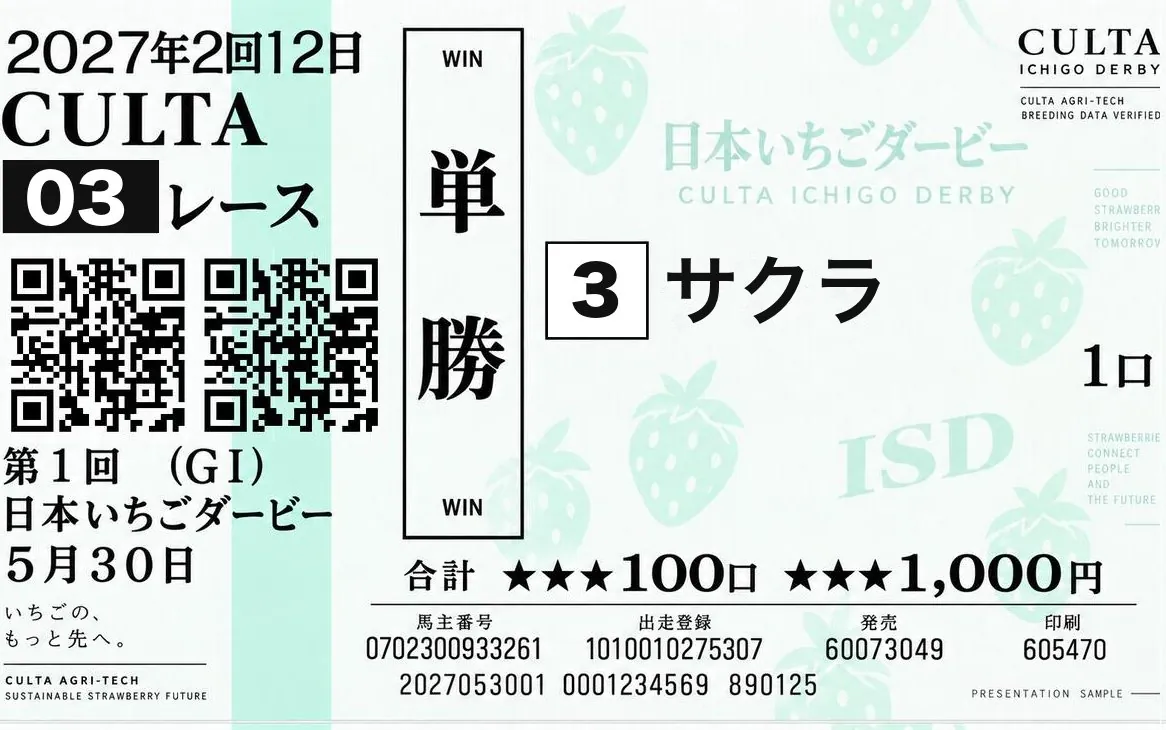
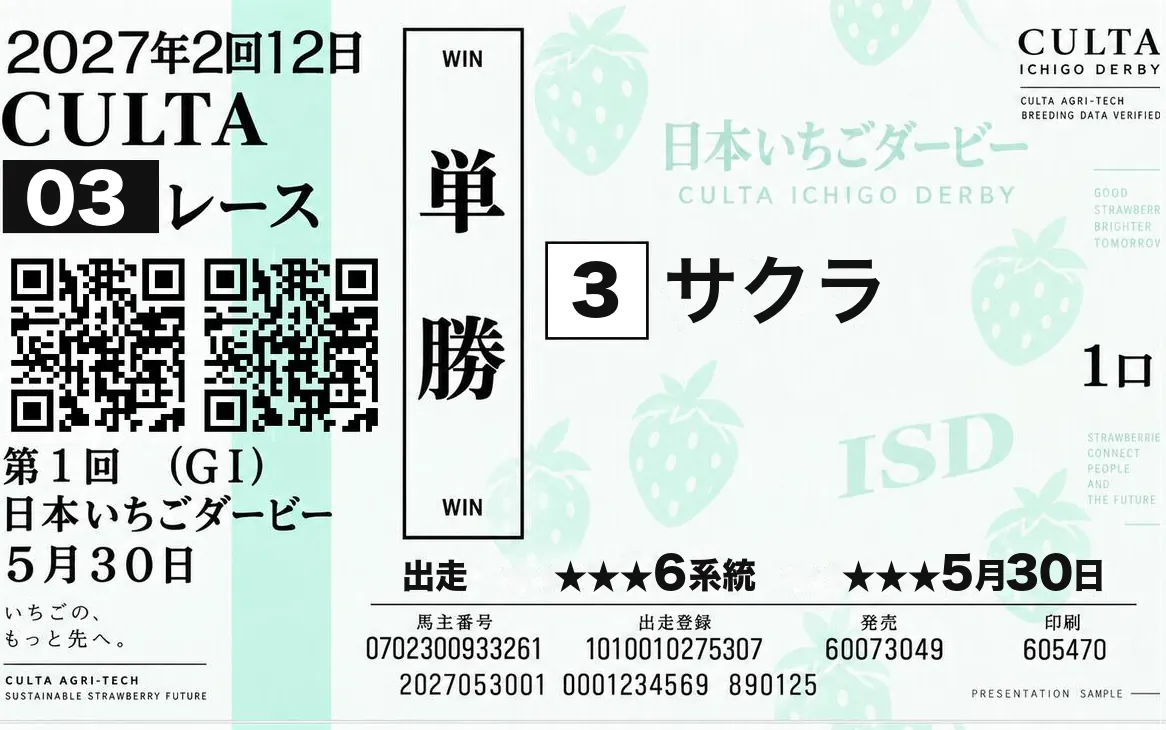
企画書の粒度に合わせて整理。突かれる余地のある記述を落とす
・名称を「日本いちごダービー」に戻した（印刷した券の表記と一致）。決着は5月30日
・いちご券から金額行を削除。「合計 ★★★100口 ★★★1,000円」→「出走 ★★★6系統 ★★★5月30日」。
  元の書体・位置・★の masking を保ったまま、消した跡は拡散インペイントで地紋を復元
・券は購入ではなく配布に。「この系統のいちご券をもらう」／「いちご券を受け取りました」
・クラブの説明を「候補品種が1つ割り当てられたカード。投票券ではありません」に
・払い戻し／売上／オッズ／配当／会費の記述を全削除
・READから出走条件の表と想定問答を削除し、企画の中身に差し替え
  （なぜダービーなのか／なぜ3〜5月なのか／走らせ方／レース会場／毎年5月／WINNER）
・「同じ一粒を保存するのではない。同じ系統を栽培し続け、その時期に実った果実を見る」を明記

Changed region(s): [[0.6792, 0.7534, 0.9571, 0.8137], [0.4322, 0.7534, 0.6484, 0.8137], [0.3396, 0.7534, 0.4014, 0.8137]]

diff --git a/app.js b/app.js
@@ -1,5 +1,5 @@
 /* =========================================================================
-   app.js — 新・いちご優駿 ｜ 旬を、走り切れ。
+   app.js — 日本いちごダービー ｜ 旬を、走り切れ。
    1画面に1つの仕事。ホームは「選ぶ」だけ、図鑑は「知る」だけ。
    ========================================================================= */
 (function () {
@@ -68,7 +68,7 @@ V.home = function () {
     v.innerHTML =
       '<div class="hwrap">' +
         '<div class="hbar"><svg viewBox="0 0 44 24"><path d="M3 22 L10 7 L16 15 L22 3 L28 15 L34 7 L41 22 Z"/></svg>' +
-          '<b>新・いちご優駿</b></div>' +
+          '<b>日本いちごダービー</b></div>' +
         '<div class="hsub">旬を、走り切れ。</div>' +
         '<div class="rbar"><div class="rail">' + RACE.legs.map(function (g, i) {
           return '<b class="' + (i < RACE.now ? 'on' : i === RACE.now ? 'last' : '') +
@@ -130,7 +130,7 @@ function paintHome() {
   $$('#dots button').forEach(function (x, i) { x.classList.toggle('on', i === idx); });
   var n = $('#hname'); if (!n) return;
   n.innerHTML = '<div class="no' + (r === 1 ? ' w' : '') + '">' +
-      (r === 1 ? RACE.year + ' 優駿　WINNER' : 'CANDIDATE No.0' + l.no) + '</div>' +
+      (r === 1 ? RACE.year + '　WINNER' : 'CANDIDATE No.0' + l.no) + '</div>' +
     '<div class="nm">' + l.name + '</div><div class="kj">' + l.kanji + '　' + l.ln + '</div>';
   $('#hstat').innerHTML =
     '<div><div class="k">最終順位</div><div class="v num' + (r === 1 ? ' w' : '') + '">' + r + '<em>位</em></div></div>' +
@@ -152,7 +152,7 @@ V.dex = function () {
       '<button id="fav2" style="color:' + (S.fav === l.no ? 'var(--rd)' : 'var(--g2)') + '">' + IC.heart + '</button></div>' +
     '<div class="dhero"><div class="stage" data-shape="' + l.shape + '" data-spread="96"></div></div>' +
     '<div class="dhead"><div class="no' + (win ? ' w' : '') + '">' +
-      (win ? RACE.year + ' 新・いちご優駿　WINNER' : 'CANDIDATE No.0' + l.no) + '</div>' +
+      (win ? RACE.year + ' 日本いちごダービー　WINNER' : 'CANDIDATE No.0' + l.no) + '</div>' +
       '<div class="nm">' + l.name + '</div>' +
       '<div class="cp">' + l.copy[0] + l.copy[1] + '</div></div>' +
     '<div class="seg q4" id="seg"><i class="ink"></i>' +
@@ -160,7 +160,7 @@ V.dex = function () {
         return '<button data-t="' + i + '"' + (i === dTab ? ' class="on"' : '') + '>' + t + '</button>'; }).join('') + '</div>' +
     '<div class="dbody" id="dbody"></div>' +
     '<div class="dfoot"><button class="btn" id="own">' +
-      (S.owner === l.no ? 'いちご券を見る' : 'このいちご券を購入する') +
+      (S.owner === l.no ? 'いちご券を見る' : 'この系統のいちご券をもらう') +
       '<span class="ar">→</span></button></div>';
   $('#cls').onclick = function () { go('home'); };
   $('#fav2').onclick = function () { S.fav = S.fav === l.no ? 0 : l.no; save();
@@ -205,7 +205,7 @@ function runs(l) {
   var gap = l.race[RACE.now] - l.race[0];
 
   return '<div class="runs rise" id="runs">' +
-      '<div class="rhd"><b>順位の推移</b><span>' + RACE.year + '　3/10 → 5/25</span></div>' +
+      '<div class="rhd"><b>順位の推移</b><span>' + RACE.year + '　3/10 → 5/30</span></div>' +
       '<svg class="rchart" viewBox="0 0 320 186">' + g + others +
         '<path class="me" d="' + rpath(l.no) + '"/>' + dots + mons + '</svg>' +
       '<div class="rsum"><div><span>3月</span><b>' + me[1] + '位</b></div>' +
@@ -234,7 +234,7 @@ function abil(l) {
     return '<text class="rn" x="' + p[0] + '" y="' + (p[1] + dy) + '" text-anchor="' + an + '">' + k + '</text>' +
            '<text class="rv" x="' + p[0] + '" y="' + (p[1] + dy + 16) + '" text-anchor="' + an + '">' + l.radar[k] + '</text>';
   }).join('');
-  return '<div class="ahd rise"><b>最終計測</b><span>5月25日</span></div>' +
+  return '<div class="ahd rise"><b>最終計測</b><span>5月30日</span></div>' +
     '<div class="radarbox rise"><svg class="radar" viewBox="0 0 192 192">' + web +
       '<polygon class="area" id="rarea" points="' + RAX.map(function () { return RC + ',' + RC; }).join(' ') + '"/>' +
       RAX.map(function (k, i) { var p = rpt(i, l.radar[k] / 100); return '<circle class="dot" cx="' + p[0] + '" cy="' + p[1] + '" r="3"/>'; }).join('') + labs + '</svg></div>' +
@@ -392,7 +392,7 @@ function issue(l) {
   var first = S.owner !== l.no;
   S.owner = l.no; S.no = S.no || ('ICY-' + RACE.year + '-' + (1000 + Math.floor(Math.random() * 8999))); save();
   pop({ art: ticket(l), color: l.wc, from: '#own', max: 330,
-    title: first ? 'いちご券を購入しました' : 'あなたのいちご券',
+    title: first ? 'いちご券を受け取りました' : 'あなたのいちご券',
     sub: l.no + '号　' + l.name + '　／　最終 ' + rankAt(RACE.now, l.no) + '着',
     id: S.no, cta: 'クラブで見る', then: function () { go('club'); } });
 }
@@ -413,7 +413,7 @@ V.club = function () {
   v.innerHTML = '<div class="scroll"><div class="ptop">' +
     '<div class="kicker">ICHIGO TICKET</div>' +
     '<h1 class="disp" style="margin-top:10px">いちご券と、<br>応援クラブ。</h1>' +
-    '<p class="body" style="margin-top:14px">いちご券は、6系統のうちどれが5月末まで走り切るかを予想して買うカードです。当たっても払い戻しはありません。売上はそのまま次の品種改良に回ります。</p>' +
+    '<p class="body" style="margin-top:14px">3月の出走発表で配られる、候補品種が1つ割り当てられたカードです。投票券ではありません。自分のいちごが5月末までどう順位を変えていくかを、見守るためのものです。</p>' +
     (mine ? '<div class="mytk"><div class="cap"><b>YOUR TICKET</b><span>' + (S.no || '') + '</span></div>' +
       ticket(mine) + tkline(mine) + '</div>'
           : '<div class="empt">まだいちご券を持っていません。<br>ホームから系統を選ぶと購入できます。</div>') +
@@ -467,8 +467,7 @@ V.team = function () {
           '<span class="d num">' + g.d + '</span><span class="t">' + g.t + '</span>' +
           '<span class="cv">' + IC.next + '</span></button>'; }).join('') +
       '<div class="sec"><b>JOIN</b><span>入会</span></div>' +
-      '<p class="body" style="margin-top:12px">入会に費用はかかりません。' + c.base +
-        'の集まりに一度来てもらうのが、条件です。会員証を発行します。</p>' +
+      '<p class="body" style="margin-top:12px">' + c.base + 'の集まりに一度来てもらうと、会員証が出ます。</p>' +
       '<button class="btn' + (joined ? ' ghost' : '') + '" id="join" style="margin-top:14px">' +
         (joined ? '会員証を見る' : 'この会に入る') + '<span class="ar">→</span></button>' +
       '<div style="height:40px"></div></div></div>';
@@ -501,32 +500,41 @@ V.post = function () {
 
 V.about = function () {
   var v = $('#v-about'), w = LINES[CROWN.line - 1];
+  function sec(en, ja, body) {
+    return '<div class="sec"><b>' + en + '</b><span>' + ja + '</span></div>' +
+      body.map(function (t) { return '<p class="body" style="margin-top:12px">' + t + '</p>'; }).join('');
+  }
   v.innerHTML = '<div class="scroll"><div class="ptop">' +
     '<div class="kicker">READ</div>' +
-    '<h1 class="disp" style="margin-top:10px">いちごの旬が<br>終わる季節を、<br>新しい春いちごが<br>決まる季節へ。</h1>' +
-    '<p class="body" style="margin-top:16px">CULTAは、一般に約10年かかるいちごの品種改良を、AIを使って約2年に縮めている。掛け合わせ、育て、特徴を見極め、選ぶ。その過程そのものを公開したのが、新・いちご優駿です。</p>' +
-    '<div class="sec"><b>WHY THE RACE</b><span>なぜ競馬なのか</span></div>' +
-    '<p class="body" style="margin-top:12px">親から特徴を受け継いで生まれ、育てられ、実力を見られ、優れたものが選ばれ、その結果が次の世代へつながる。CULTAの育種は、もともと競馬と同じ構造を持っている。違うのは、いちごだけ「生まれるまで」が見えていないことでした。</p>' +
-    '<div class="sec"><b>THE COURSE</b><span>春が、コースになる</span></div>' +
-    '<p class="body" style="margin-top:12px">一般的ないちごは、暖かくなるほど品質を保つのが難しくなる。CULTAが開発しているのは、5月末まで甘さを保てる可能性を持つ品種。だからレースは一日では終わりません。3月から5月末までの春そのものが、コースです。</p>' +
-    '<div class="sec"><b>RULES</b><span>出走条件</span></div>' +
-    [['出走', 'まだ発売されていない品種候補6系統のみ'], ['計測', '3月10日から5月25日まで、隔週で6回'],
-     ['項目', RACE.axes], ['優駿', '5月末に最も高い品質を保った系統'],
-     ['いちご券', '予想して買う。払い戻しはない'],
-     ['売上', 'そのまま次の品種改良へ'],
-     ['賞', 'なし。優駿だけが正式な品種名を得る'], ['翌年', '走った系統が交配親になり、その子が走る']].map(function (x) {
-      return '<div class="row"><span class="k">' + x[0] + '</span><span class="v" style="font-weight:500;font-size:12.5px">' + x[1] + '</span></div>'; }).join('') +
+    '<h1 class="disp" style="margin-top:10px">新しいいちごが<br>生まれるまでを、<br>3か月のダービーにする。</h1>' +
+    '<p class="body" style="margin-top:16px">CULTAが開発中の春いちご候補を、完成してから発表するのではなく、育種の途中から公開する。3月に出走を発表し、暖かくなっていく春の中で品質を見て、5月末にその年の頂点を決める。新商品の発表ではなく、いちごが生まれていく過程そのものを見せる企画です。</p>' +
+
+    sec('WHY THE DERBY', 'なぜダービーなのか', [
+      '親を掛け合わせる。生まれた候補を育てる。それぞれの特徴を見る。優れたものを選ぶ。その強さを次の世代へつなげる。CULTAの育種は、競走馬の世界と同じ構造を持っています。',
+      '競馬では、結果が出るまでの部分も物語として楽しまれている。どんな血統なのか、どんな強さを受け継いだのか、前の世代とどうつながっているのか。一方いちごは、店頭に完成品が突然現れる。だからその手前を、ダービーという形式を借りて見せます。']) +
+
+    sec('THE SEASON', 'なぜ3月から5月末なのか', [
+      'CULTAが持っている価値は、一般的ないちごの旬を越えて、春から5月まで高い品質を保てること。だから暖かくなっていく3月から5月を、そのまま競技期間にします。',
+      '競馬も春にレースが続き、5月末の日本ダービーで世代の頂点が決まる。競馬の春シーズンと、春いちごが価値を発揮する季節が重なっている。日本ダービーでその世代の頂点が決まる季節に、その年の春いちごの頂点も決まります。']) +
+
+    sec('HOW IT RUNS', '走らせ方', [
+      '同じ一粒を保存するのではありません。同じ候補系統を栽培し続け、その時期に実った果実を見ます。3月に実った果実、4月に実った果実、5月に実った果実。春が進み、気温が上がっていく中で、その系統がどこまで品質を維持できるかを追います。',
+      '順位が変わること自体が、このコンテンツの中身です。']) +
+
+    sec('THE COURSE', 'レース会場', [
+      '新しい会場はつくりません。CULTAが普段、育種・栽培・評価をしている研究現場そのものが会場です。企業の裏側にあった栽培・計測・選抜・次世代候補を、そのまま表に出します。',
+      'いちごが走るのではなく、研究員がいちごを計測すること自体を中継します。']) +
+
+    sec('EVERY MAY', '毎年5月', [
+      '3月「今年はどんないちごが出るんだろう」。4月「今年はナデシコが強いらしい」。5月「今年の春いちごはどれになるんだろう」。',
+      'これを毎年繰り返して、「5月になったら、今年の春いちごが決まる」という新しい季節の習慣をつくります。']) +
+
     '<div class="sec"><b>' + RACE.year + ' WINNER</b><span>売り場へ</span></div>' +
-    '<div class="crown"><div class="l">' + RACE.year + ' 新・いちご優駿　WINNER</div>' +
+    '<div class="crown"><div class="l">' + RACE.year + ' 日本いちごダービー　WINNER</div>' +
       '<div class="n">' + CROWN.name + '</div>' +
       '<div class="k">' + CROWN.kana + '　／　' + w.no + '号 ' + w.name + '（' + w.ln + '）</div>' +
       '<p>走り切った系統は、ここで初めて品種名を与えられる。この一行を帯に巻いて、翌年の春、売り場に並ぶ。</p></div>' +
-    '<div class="sec"><b>QUESTIONS</b><span>想定問答</span></div>' +
-    QA.map(function (q) { return '<div class="qa"><button><span class="q">' + q[0] + '</span><span class="pm"></span></button><div class="a"><p>' + q[1] + '</p></div></div>'; }).join('') +
     '<div style="height:40px"></div></div></div>';
-  $$('.qa button', v).forEach(function (b) { b.onclick = function () {
-    var qa = b.parentNode, a = $('.a', qa), o = qa.classList.toggle('open');
-    a.style.maxHeight = o ? a.scrollHeight + 'px' : 0; }; });
 };
 
 /* ---------- 起動 ---------- */

diff --git a/data.js b/data.js
@@ -1,5 +1,5 @@
 /* =========================================================================
-   data.js — 新・いちご優駿 2027 ｜ 旬を、走り切れ。
+   data.js — 日本いちごダービー 2027 ｜ 旬を、走り切れ。
    3月から5月末まで、CULTAの品種候補6系統が春を走る。
    勝つのは、5月末までいちばん品質を保った系統。
    枠番の色は中央競馬の帽色（1白 2黒 3赤 4青 5黄 6緑）。
@@ -14,7 +14,7 @@ const RACE = {
     { d: '4/10', m: '4月', t: '第3計測' },
     { d: '4/25', m: '4月', t: '第4計測' },
     { d: '5/10', m: '5月', t: '第5計測' },
-    { d: '5/25', m: '5月', t: '最終計測' }
+    { d: '5/30', m: '5月', t: '最終計測' }
   ],
   now: 5,                      /* 現在地＝最終計測（レース終了） */
   axes: '甘さ・酸味・硬さ・香り・味'
@@ -185,20 +185,6 @@ const JUDGES = [
 /* 走り切った系統だけが、正式な品種名を与えられて売り場へ出る */
 const CROWN = { name: '五月晴', kana: 'さつきばれ', roma: 'SATSUKIBARE', line: 3 };
 
-const QA = [
-  ['なぜ競馬なのか',
-   '掛け合わせる、育てる、実力を見る、選ぶ、次の世代へ。CULTAの品種改良には、もともと競馬と同じ構造があります。違うのは、競馬は血統と世代交代まで物語になっているのに、いちごは生まれるまでが見えていないことです。'],
-  ['なぜ3月から5月末までなのか',
-   '一般的ないちごは、暖かくなるほど品質を保つのが難しくなります。CULTAが開発しているのは5月末まで甘さを保てる可能性を持つ品種。だから春そのものをコースにしました。一日の勝負ではなく、春を走り切れるかを見ます。'],
-  ['人気投票ではないのか',
-   '違います。甘さ・酸味・硬さ・香り・味を隔週で計測し、5月末に最も高い品質を保っていた系統が優駿になります。生活者がするのは予想と応援で、結果は数値だけで決まります。'],
-  ['賭けにならないのか',
-   'オッズも配当もありません。いちご券は買えますが、当たっても払い戻しは一切ありません。売上はそのまま次の品種改良に回ります。当てた人が受け取るのは、その系統の品種名に自分の券番号が残ること。それだけです。'],
-  ['なぜ市販の品種を走らせないのか',
-   '順位がつくと、下位になった商品の売上が落ちます。傷つく人が出る企画は続きません。まだ発売されていない品種候補だけなら、誰の売上も減らない。'],
-  ['勝てなかった5系統はどうなるのか',
-   '商品化はされません。ただし、そこで見つかった強さは交配親として残ります。翌年の出走表に、父や母の欄で名前が出てきます。今年のゴールが、来年のスタートになる。']
-];
 
 /* 祖先が何を渡したか。血統図のノードを押すと出る */
 const ANC = {
@@ -243,9 +229,9 @@ const CLUBS = [
             '遅いことが悪いとは限らないと分かったのは、5月に入ってからだった。'],
         n: [['開催', '第2日曜'], ['参加', '平均14名'], ['今季', '4回']] },
       { t: '計測日の同行', d: '隔週の計測日に有志が立ち会う。数値は後日、会報に載る。',
-        date: '2027.5.25', h: '42名で、最後の計測を見た',
+        date: '2027.5.30', h: '42名で、最後の計測を見た',
         p: ['隔週の計測日に、有志が立ち会う。立ち会うといっても、測っているところを外から見ているだけ。',
-            '最終計測は5月25日。八女に42名が集まった。会として最も多い人数だった。',
+            '最終計測は5月30日。八女に42名が集まった。会として最も多い人数だった。',
             '糖度14.2、糖酸比20.9。読み上げられた数字を、全員が自分の紙に書いた。3月の6着から、一度も順位を下げないまま、ここまで来た。',
             '数字が出た瞬間より、そのあとの5秒のほうが静かだった。'],
         n: [['立会', '42名'], ['最終糖度', '14.2'], ['順位', '1着']] },
@@ -257,9 +243,9 @@ const CLUBS = [
         n: [['創刊', '2026年5月'], ['発行', '年6回'], ['部数', '3,184']] }
     ],
     log: [
-      { d: '5/25', t: '最終計測に42名が立ち会う。サクラ、1着。',
-        date: '2027.5.25', h: '1着。3月の6着から',
-        p: ['5月25日、最終計測。サクラが1着になった。',
+      { d: '5/30', t: '最終計測に42名が立ち会う。サクラ、1着。',
+        date: '2027.5.30', h: '1着。3月の6着から',
+        p: ['5月30日、最終計測。サクラが1着になった。',
             '3月10日の初回は6着。6系統でいちばん下だった。会員は当時412名。',
             '八女に来た42名のうち、3月の初回にも来ていたのは9名だった。'] },
       { d: '5/10', t: '八女で糖度測定会。会員の実測平均は14.0。',
@@ -306,10 +292,10 @@ const CLUBS = [
         n: [['対象', '奈良・京都 18軒'], ['記録', '写真412枚']] }
     ],
     log: [
-      { d: '5/25', t: '最終計測。半馬身差の2着。',
-        date: '2027.5.25', h: '半馬身差の2着',
+      { d: '5/30', t: '最終計測。半馬身差の2着。',
+        date: '2027.5.30', h: '半馬身差の2着',
         p: ['最終計測、88ポイント。1着のサクラは91だった。',
-            '5月10日は1ポイント差で前に出ていた。そこから15日間で、4ポイント分ひっくり返された。',
+            '5月10日は1ポイント差で前に出ていた。そこから20日間で、4ポイント分ひっくり返された。',
             '負けた日にも、橿原には31名が集まった。'] },
       { d: '5/10', t: '単独首位に立つ。橿原に31名が集合。',
         date: '2027.5.10', h: '初めて、首位に立った',
@@ -355,8 +341,8 @@ const CLUBS = [
         n: [['提携', '4農園'], ['共有', '週1回']] }
     ],
     log: [
-      { d: '5/25', t: '最終計測は5着。試食会はこのあとも続ける。',
-        date: '2027.5.25', h: '5着。それでも続ける',
+      { d: '5/30', t: '最終計測は5着。試食会はこのあとも続ける。',
+        date: '2027.5.30', h: '5着。それでも続ける',
         p: ['最終計測は5着、63ポイント。3月の76から13下げた。',
             '硬度が42まで落ちた時点で、流通の評価は戻らなかった。',
             'それでも、その日に食べれば果汁は90ある。試食会は来季も続ける。'] },

diff --git a/index.html b/index.html
@@ -4,21 +4,21 @@
 <meta charset="utf-8">
 <meta name="viewport" content="width=device-width,initial-scale=1,viewport-fit=cover,maximum-scale=1,minimum-scale=1,user-scalable=no">
 <meta name="theme-color" content="#ffffff">
-<title>新・いちご優駿 ｜ 旬を、走り切れ。</title>
+<title>日本いちごダービー ｜ 旬を、走り切れ。</title>
 <link rel="manifest" href="manifest.json">
 <link rel="apple-touch-icon" href="img/icon-192.png">
 <meta name="apple-mobile-web-app-capable" content="yes">
 <meta name="apple-mobile-web-app-status-bar-style" content="default">
-<meta name="apple-mobile-web-app-title" content="新・いちご優駿">
+<meta name="apple-mobile-web-app-title" content="日本いちごダービー">
 <link rel="preconnect" href="https://fonts.googleapis.com"><link rel="preconnect" href="https://fonts.gstatic.com" crossorigin>
 <link rel="preload" as="style" href="https://fonts.googleapis.com/css2?family=Zen+Old+Mincho:wght@700;900&amp;family=Zen+Kaku+Gothic+New:wght@400;500;700&amp;display=swap" onload="this.rel='stylesheet'">
 <noscript><link rel="stylesheet" href="https://fonts.googleapis.com/css2?family=Zen+Old+Mincho:wght@700;900&amp;family=Zen+Kaku+Gothic+New:wght@400;500;700&amp;display=swap"></noscript>
-<link rel="stylesheet" href="ui.css?v=131">
+<link rel="stylesheet" href="ui.css?v=140">
 </head>
 <body>
 <script>
 /* 端末が古いindex.htmlを握っていても、必ず最新版へ入れ替える */
-(function(){var V="131",q=new URLSearchParams(location.search);
+(function(){var V="140",q=new URLSearchParams(location.search);
  if(q.get("b")===V)return;
  fetch("v.txt?t="+Date.now(),{cache:"no-store"}).then(function(r){return r.text()}).then(function(t){
    t=(t||"").trim();
@@ -48,8 +48,8 @@
   </nav>
   <div id="toast"></div>
 </div>
-<script src="data.js?v=131"></script>
-<script src="field.js?v=131"></script>
-<script src="app.js?v=131"></script>
+<script src="data.js?v=140"></script>
+<script src="field.js?v=140"></script>
+<script src="app.js?v=140"></script>
 </body>
 </html>

diff --git a/zukan.html b/zukan.html
@@ -4,7 +4,7 @@
 <meta charset="utf-8">
 <meta name="viewport" content="width=device-width,initial-scale=1,viewport-fit=cover,maximum-scale=1">
 <meta name="theme-color" content="#ffffff">
-<title>いちごずかん ｜ 新・いちご優駿</title>
+<title>いちごずかん ｜ 日本いちごダービー</title>
 <link rel="preconnect" href="https://fonts.googleapis.com"><link rel="preconnect" href="https://fonts.gstatic.com" crossorigin>
 <link rel="preload" as="style" href="https://fonts.googleapis.com/css2?family=Zen+Old+Mincho:wght@700;900&amp;family=Zen+Kaku+Gothic+New:wght@400;500;700&amp;display=swap" onload="this.rel='stylesheet'">
 <noscript><link rel="stylesheet" href="https://fonts.googleapis.com/css2?family=Zen+Old+Mincho:wght@700;900&amp;family=Zen+Kaku+Gothic+New:wght@400;500;700&amp;display=swap"></noscript>
@@ -13,12 +13,12 @@
 <body>
 <div id="shell">
   <canvas id="photo"></canvas><canvas id="field"></canvas>
-  <a class="back" href="./"><svg viewBox="0 0 18 24"><path d="M12 3 4 12l8 9"/></svg>新・いちご優駿にもどる</a>
+  <a class="back" href="./"><svg viewBox="0 0 18 24"><path d="M12 3 4 12l8 9"/></svg>日本いちごダービーにもどる</a>
   <div id="page"></div>
   <div id="toast"></div>
 </div>
-<script src="data.js?v=131"></script>
-<script src="field.js?v=131"></script>
+<script src="data.js?v=140"></script>
+<script src="field.js?v=140"></script>
 <script src="zukan.js?v=2"></script>
 </body>
 </html>
